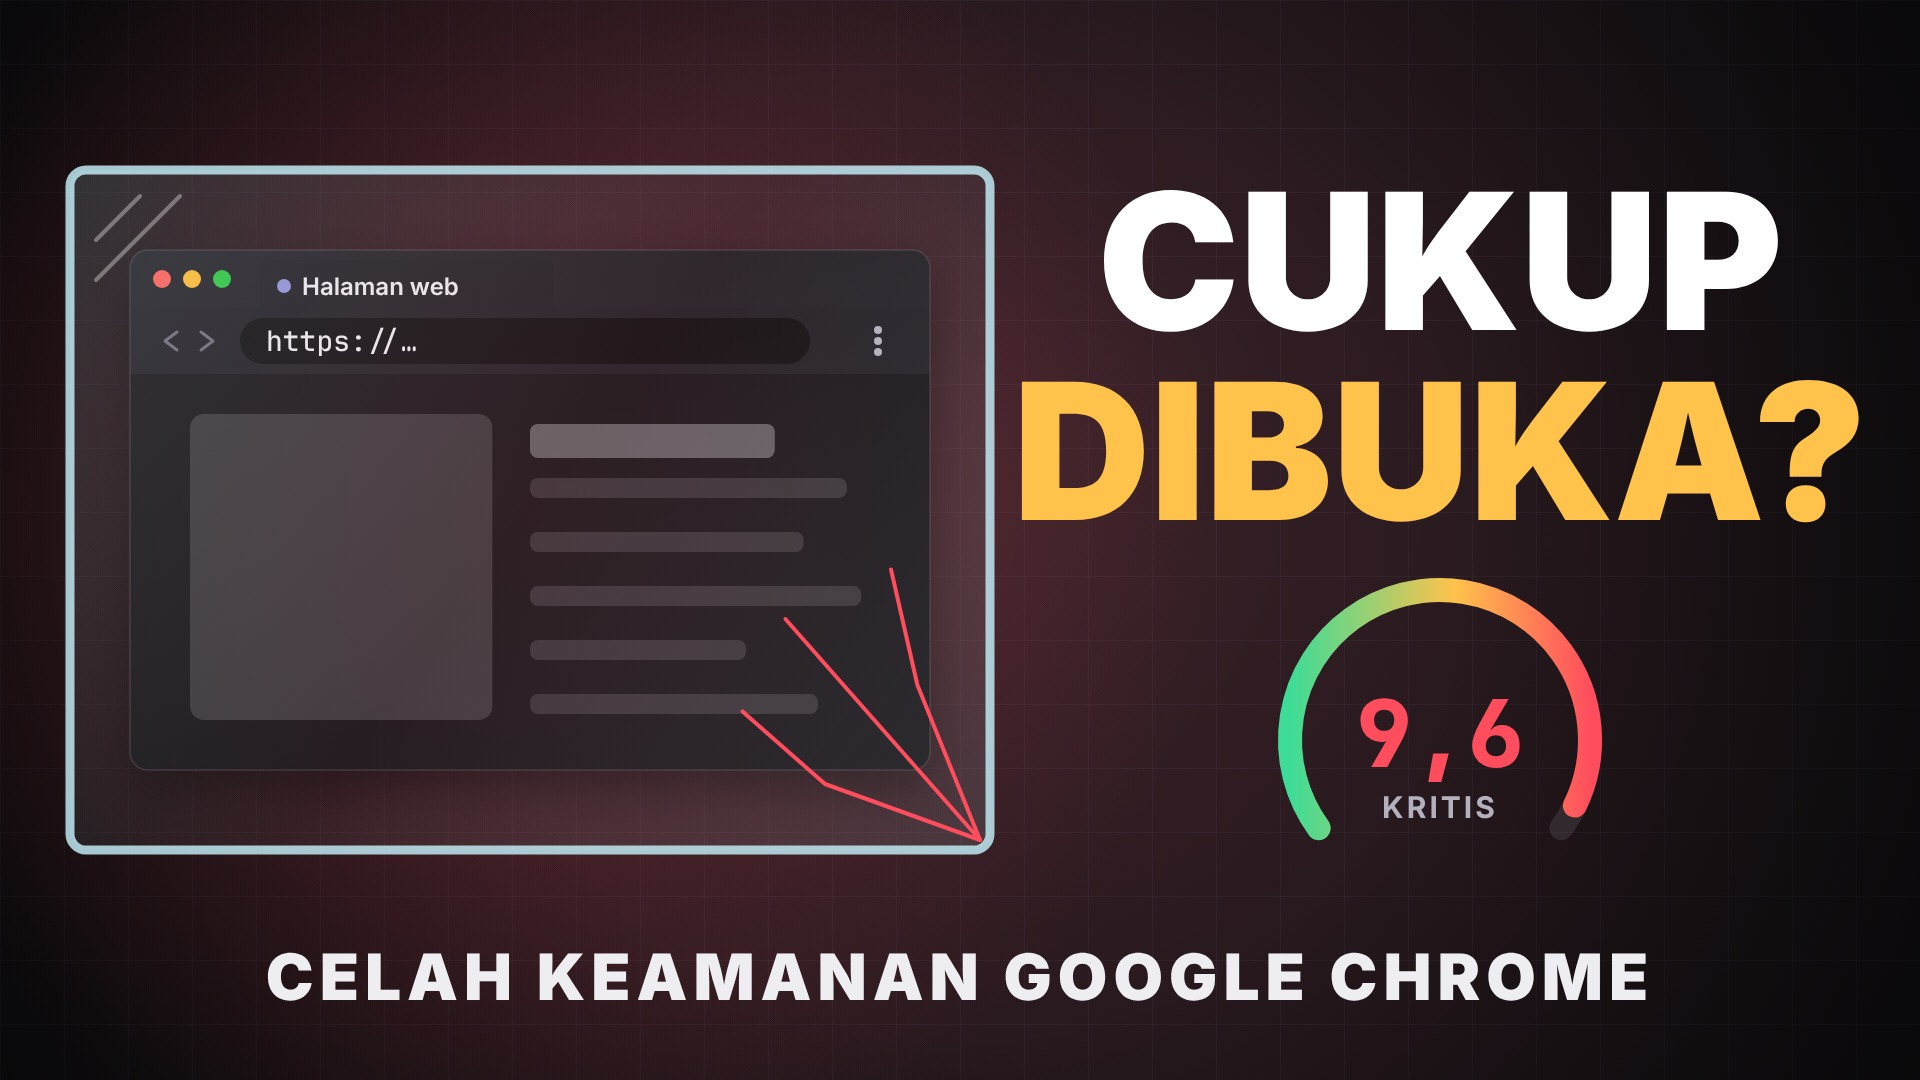
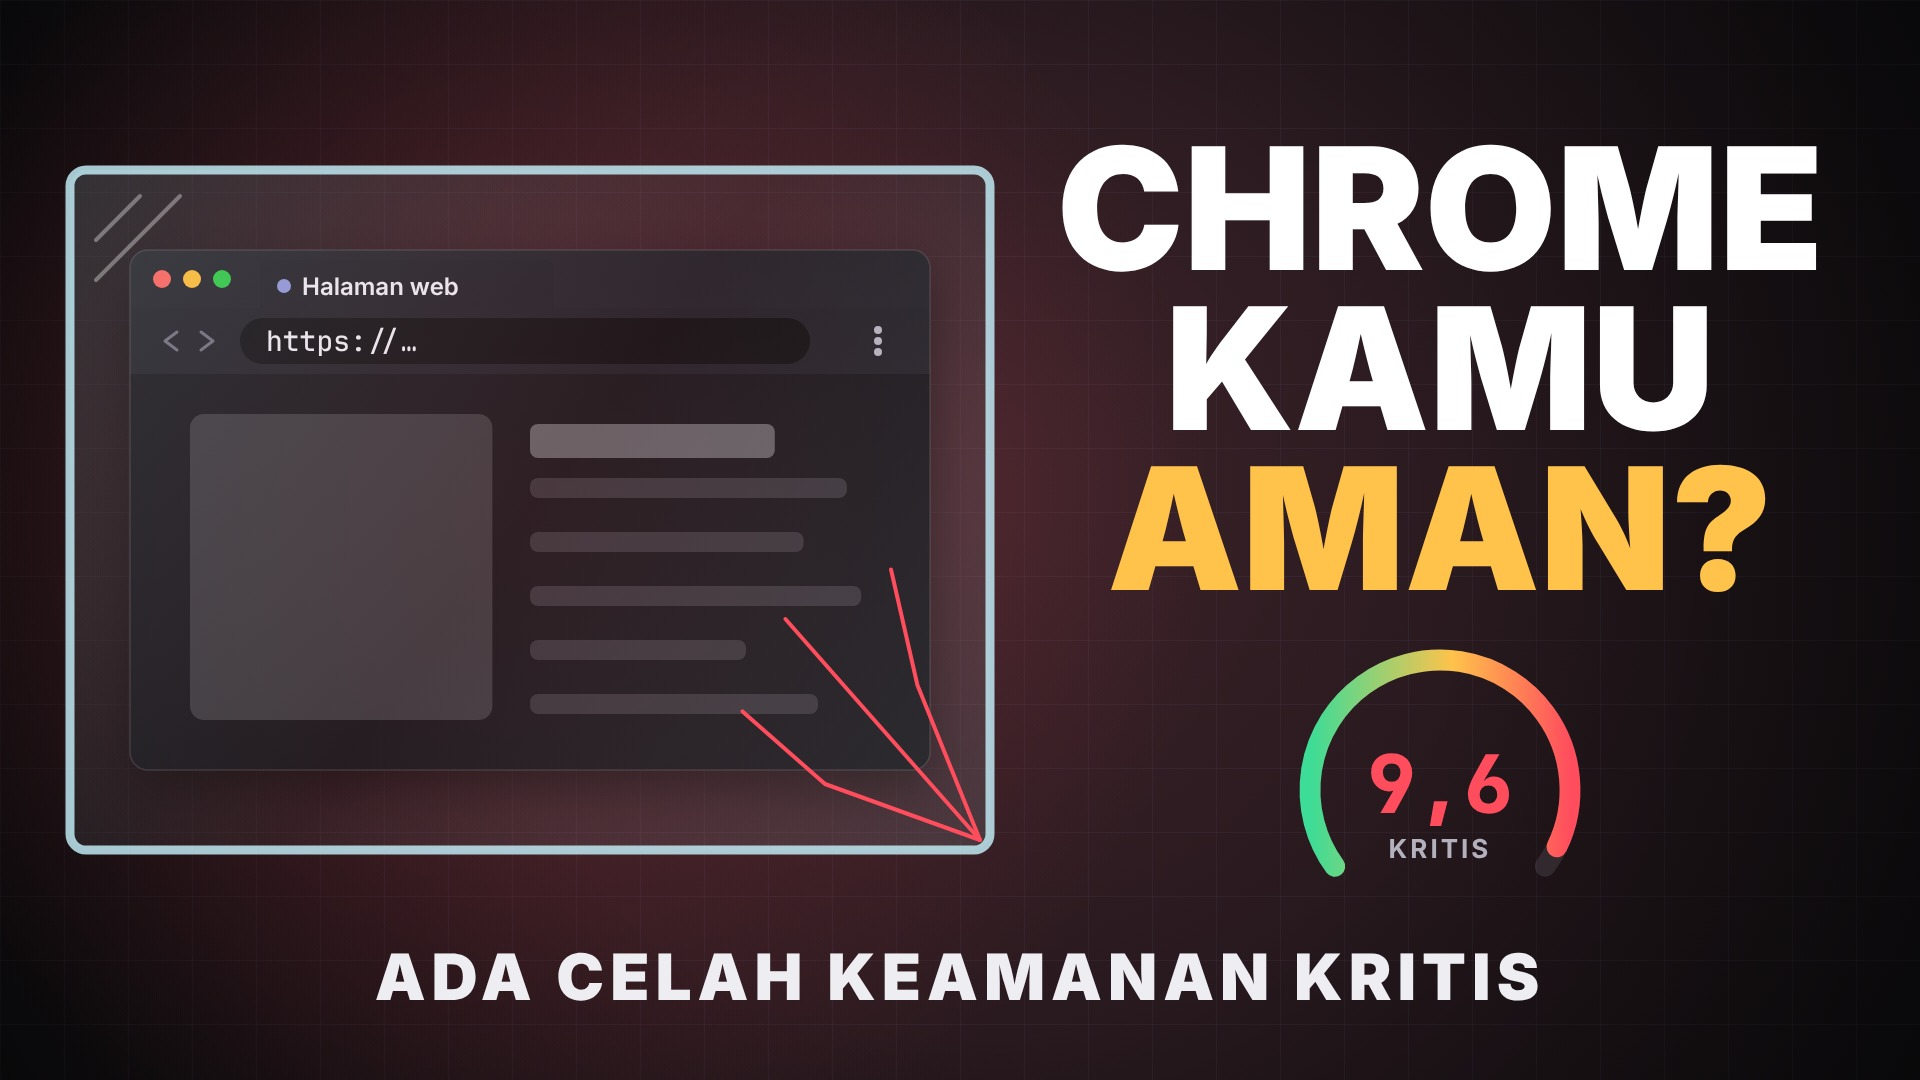
D12: teks thumbnail diganti menjadi "Chrome kamu aman?" agar jelas bagi penonton
Claude-Session: https://claude.ai/code/session_012oyg5Kopx7cwJksg51mZw1

Changed region(s): [[0.5312, 0.1222, 0.9688, 0.825], [0.125, 0.8556, 0.875, 0.9472]]

diff --git a/episodes/dok/D12/thumbnail.js b/episodes/dok/D12/thumbnail.js
@@ -1,11 +1,12 @@
-// Thumbnail D12: satu tab browser di dalam ruang kaca yang retak di satu sudut, meter 9,6, dan pertanyaan "CUKUP DIBUKA?".
+// Thumbnail D12: satu tab browser di dalam ruang kaca yang retak di satu sudut, meter 9,6, dan pertanyaan "CHROME KAMU AMAN?".
 // Tidak membocorkan jawaban (Variations, Luncurkan Ulang, status eksploitasi).
 const X = window.D12, C = X.C, U = Kiko.d12;
 X.bg(ctx, 0.3, { scan: false, tint: C.red });
 X.glow(ctx, 520, 520, 700, C.red, 0.25);
 const f = U.browser(ctx, 130, 250, 800, 520, { tabs: ["Halaman web"], url: "https://…" }); U.isiHalaman(ctx, f, 1);
 U.kaca(ctx, 70, 170, 920, 680, { lw: 9, retak: 1.5, merah: 0.35 });
-X.text(ctx, "CUKUP", 1440, 330, 190, { align: "center", weight: 900, color: C.white });
-X.text(ctx, "DIBUKA?", 1440, 520, 190, { align: "center", weight: 900, color: C.amber });
-X.meterCVSS(ctx, 1440, 740, 150, 9.6, { label: "KRITIS" });
-X.text(ctx, "CELAH KEAMANAN GOOGLE CHROME", 960, 1000, 64, { align: "center", weight: 900, color: C.text, spacing: 6 });
+X.text(ctx, "CHROME", 1440, 270, 170, { align: "center", weight: 900, color: C.white });
+X.text(ctx, "KAMU", 1440, 430, 170, { align: "center", weight: 900, color: C.white });
+X.text(ctx, "AMAN?", 1440, 590, 170, { align: "center", weight: 900, color: C.amber });
+X.meterCVSS(ctx, 1440, 790, 130, 9.6, { label: "KRITIS" });
+X.text(ctx, "ADA CELAH KEAMANAN KRITIS", 960, 1000, 64, { align: "center", weight: 900, color: C.text, spacing: 6 });
